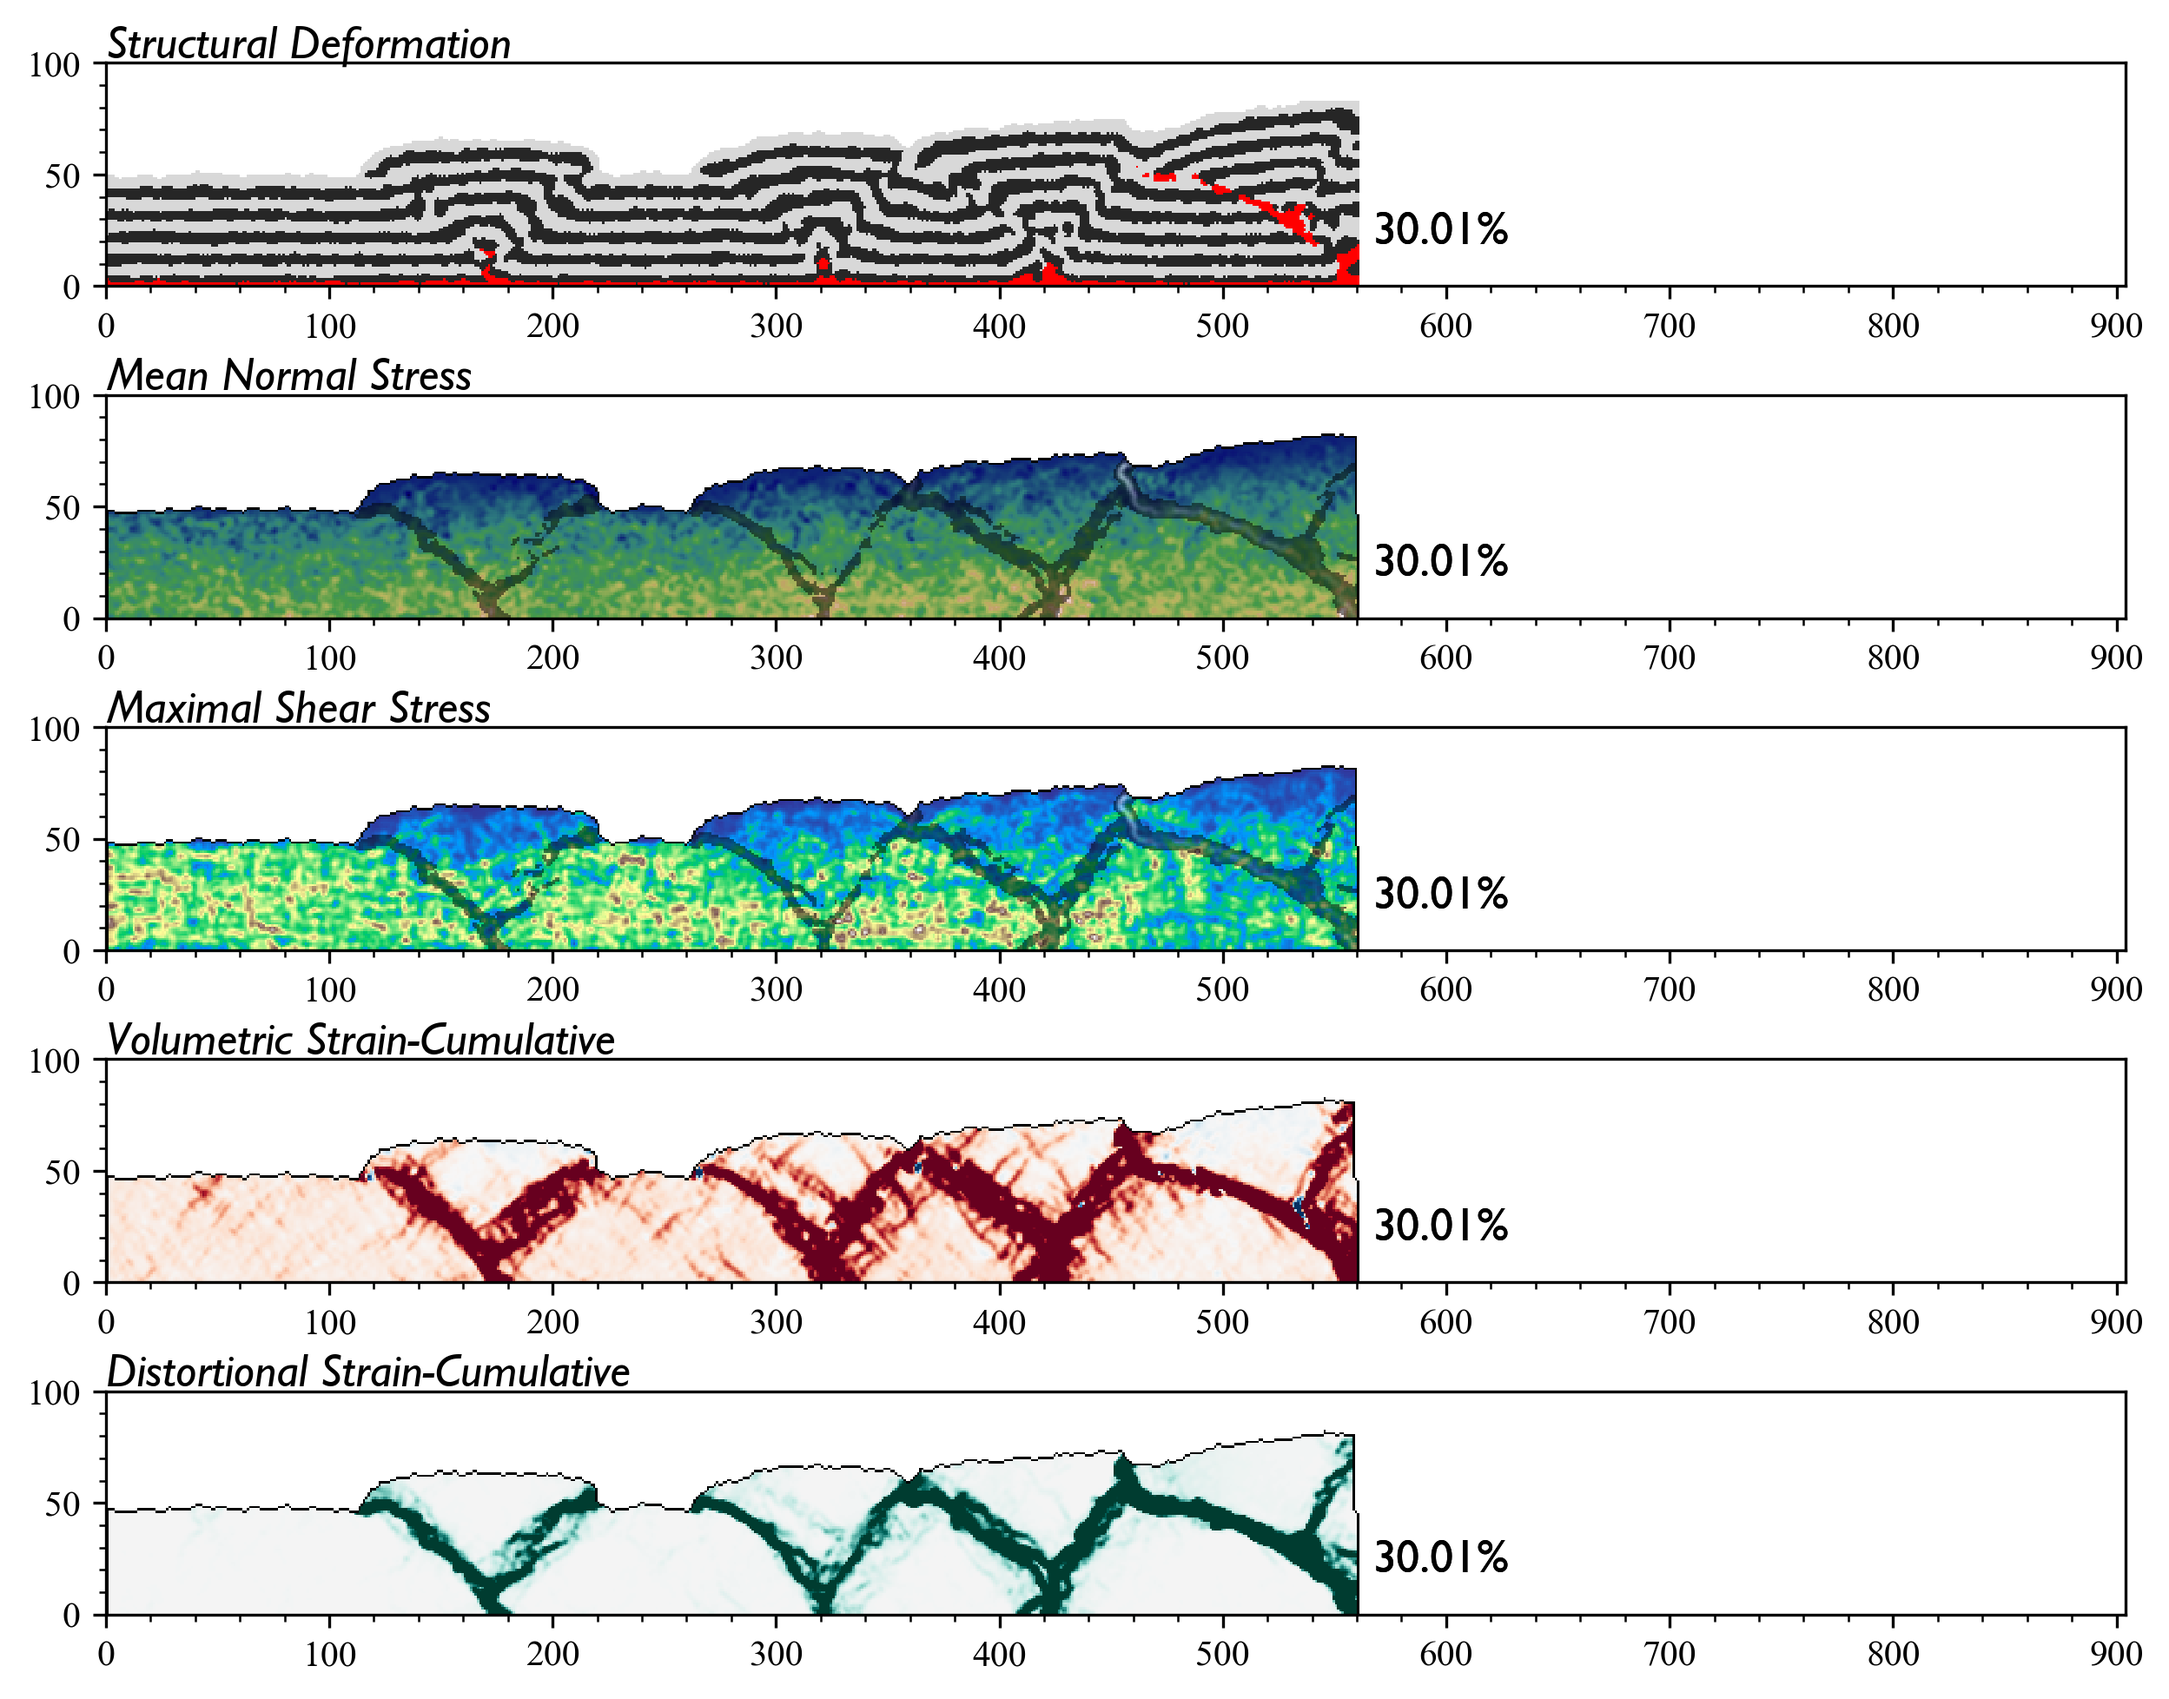
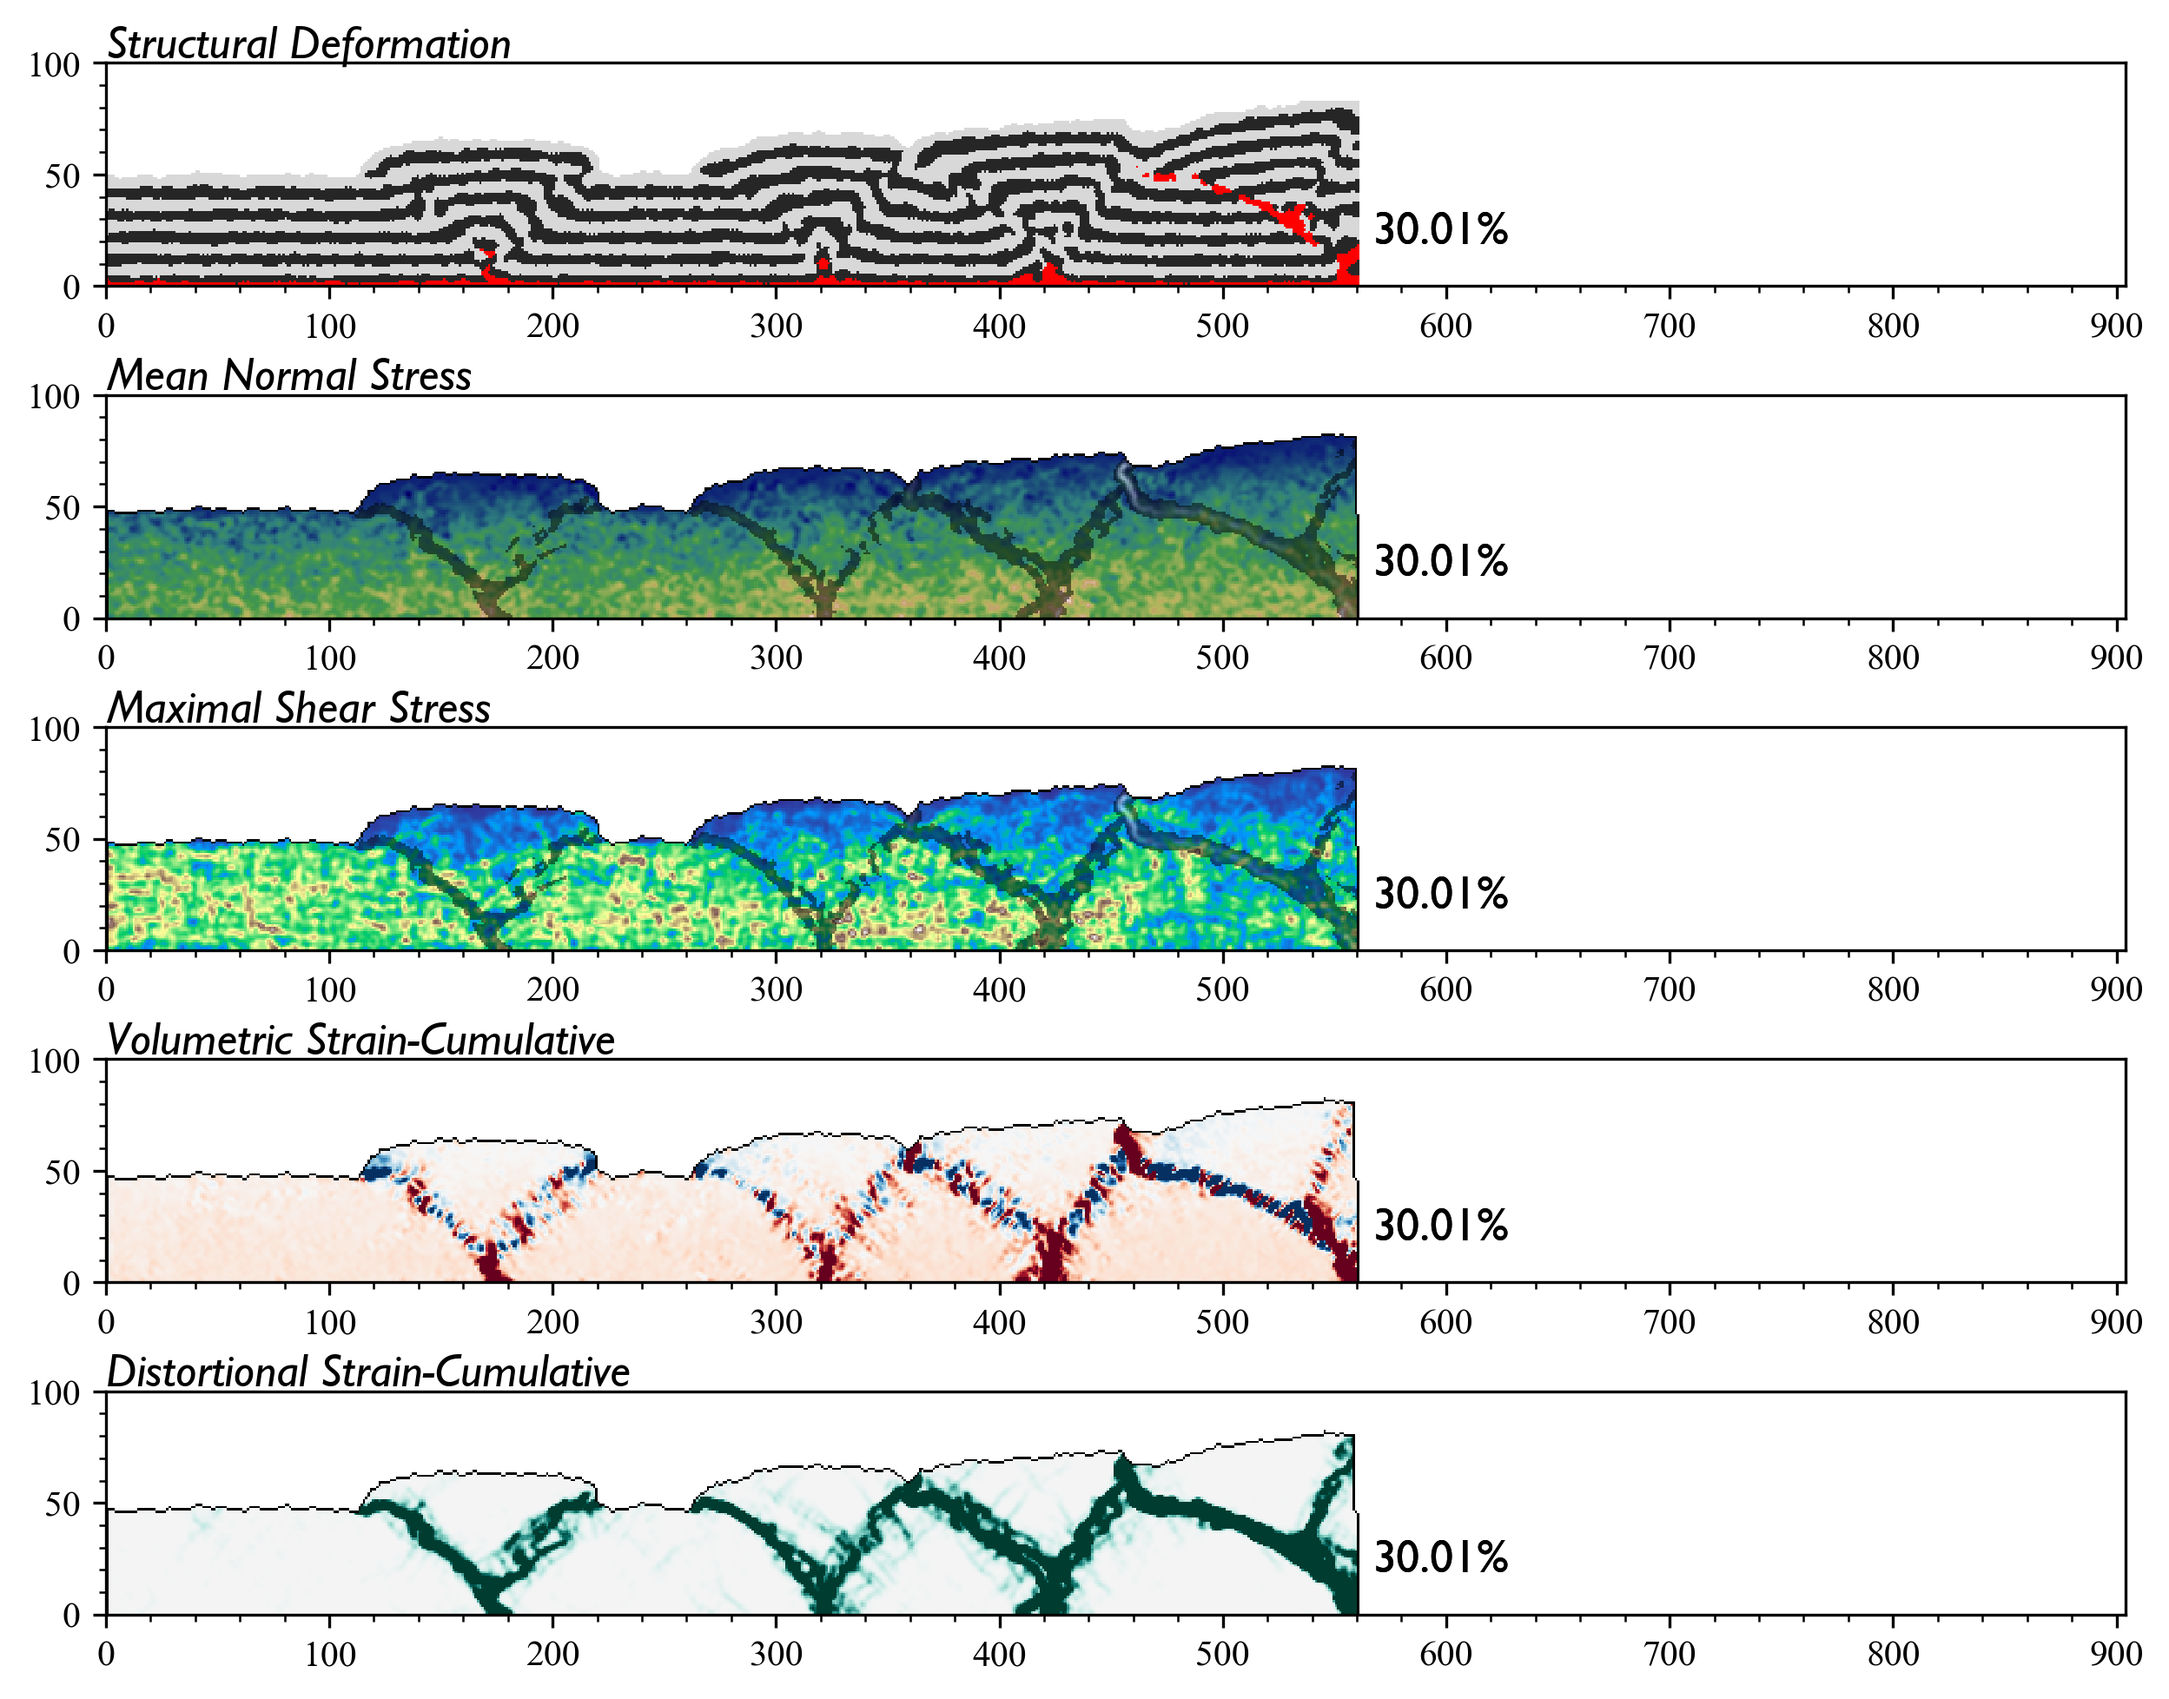
update README

diff --git a/2D/Module/calculation_spheres_matrix.py b/2D/Module/calculation_spheres_matrix.py
@@ -11,9 +11,13 @@ Created on Sat May  4 15:25:52 2019
 
 '''
 demand:
-Calculate strain via displacement
+    Calculate strain via displacement
 '''
 
+"""
+Hint:
+    Calculation for gradient on y need to add '-' for the geometry of mat and axis is not same
+"""
 import copy as cp
 import numpy as np
 
@@ -407,15 +411,15 @@ def SpheresVelocityMatrix(pixel_step,
         Y=C_In.ScattersInGridIDW(scatters_velocity_y,pixel_step,which_surface_map)
 
     #axis=0 x gradient, axis=1 y gradient
-    X_x=np.gradient(X,axis=1)
-    X_y=np.gradient(X,axis=0)
-    Y_x=np.gradient(Y,axis=1)
-    Y_y=np.gradient(Y,axis=0)
+    X_x=+np.gradient(X,axis=1)
+    X_y=-np.gradient(X,axis=0)
+    Y_x=+np.gradient(Y,axis=1)
+    Y_y=-np.gradient(Y,axis=0)
 
     #resultant displacement
     V=np.sqrt(X**2+Y**2) 
-    V_x=np.gradient(V,axis=1)
-    V_y=np.gradient(V,axis=0)
+    V_x=+np.gradient(V,axis=1)
+    V_y=-np.gradient(V,axis=0)
     
     #make sure shape is same
     if not (np.shape(X)==\
@@ -530,9 +534,9 @@ def SpheresStrainMatrix(pixel_step,
                                 which_interpolation)
 
     #axis=0 x gradient, axis=1 y gradient
-    ε_xx=np.gradient(X,axis=1)
-    ε_yy=np.gradient(Y,axis=0)
-    γ_xy=np.gradient(Y,axis=1)+np.gradient(X,axis=0)
+    ε_xx=+np.gradient(X,axis=1)
+    ε_yy=-np.gradient(Y,axis=0)
+    γ_xy=+np.gradient(Y,axis=1)-np.gradient(X,axis=0)
 
     #make sure shape is same
     if not (np.shape(ε_xx)==\
@@ -561,15 +565,15 @@ def SpheresStrainMatrix(pixel_step,
     map_strain['Distortional']=(0.5*(ε_xx-ε_yy))**2+(0.5*γ_xy)**2
  
     #x, y gradient of X, Y
-    X_x=np.gradient(X,axis=1)
-    X_y=np.gradient(X,axis=0)
-    Y_x=np.gradient(Y,axis=1)
-    Y_y=np.gradient(Y,axis=0)
+    X_x=+np.gradient(X,axis=1)
+    X_y=-np.gradient(X,axis=0)
+    Y_x=+np.gradient(Y,axis=1)
+    Y_y=-np.gradient(Y,axis=0)
     
     #resultant displacement
     D=np.sqrt(X**2+Y**2) 
-    D_x=np.gradient(D,axis=1)
-    D_y=np.gradient(D,axis=0)
+    D_x=+np.gradient(D,axis=1)
+    D_y=-np.gradient(D,axis=0)
     
     #make sure shape is same
     if not (np.shape(X)==\

diff --git a/2D/visualization.py b/2D/visualization.py
@@ -28,7 +28,7 @@ for this_case_name in list_case_output:
     
     if version=='lite':
         
-        progress_folder=folder_output+'\\'+this_case_name+'\\structural deformation'
+        progress_folder=folder_output+'\\'+this_case_name+'\\Structural Deformation'
 
         #looking for final progress by index of max
         list_percentage=[float(this_str.split('%')[0]) for this_str in os.listdir(progress_folder)]
@@ -48,6 +48,6 @@ for this_case_name in list_case_output:
         '''final only standard: 33'''
         '''original and final all: '''
         '''original and final standard: 45'''
-        if this_case_name not in list_case_Figure or O_P.FilesAmount(folder_Figure+'\\'+this_case_name)[2]<45:
+#        if this_case_name not in list_case_Figure or O_P.FilesAmount(folder_Figure+'\\'+this_case_name)[2]<45:
             
-            V_C.CaseVisualization(folder_output+'\\'+this_case_name)
+        V_C.CaseVisualization(folder_output+'\\'+this_case_name)

diff --git a/2D/Module/visualization_case.py b/2D/Module/visualization_case.py
@@ -69,11 +69,11 @@ def CaseVisualization(case_path,output_folder=None,with_fracture=False):
     
     if output_folder==None:
         
-        case_folder=case_path.replace('output','Figures')
+        case_folder=case_path.replace('output','Figure')
         
-    V_S.SeriesAll(case_folder,that_case,with_fracture)   
-    V_A.AnimationAll(case_folder,that_case,with_fracture)
-    V_I_A.IntegralAnalysisAll(case_folder,that_case,with_fracture)
+#    V_S.SeriesAll(case_folder,that_case,with_fracture)   
+#    V_A.AnimationAll(case_folder,that_case,with_fracture)
+#    V_I_A.IntegralAnalysisAll(case_folder,that_case,with_fracture)
     
     #figures in different progress
     for this_progress in that_case.list_progress:

diff --git a/2D/essay.py b/2D/essay.py
@@ -11,17 +11,17 @@ Created on Mon Mar 16 13:59:03 2020
 
 from __init__ import *
 
-case_path=r'D:\GitHub\YADE\Controlling-Simulation\2D\extension 100-200\input\single'
+case_path=r'D:\GitHub\YADE\Controlling-Simulation\2D\compression 100-800\input\single'
 
-pixel_step=10
-
-that_case=case()
-
-that_case.InitCalculation(case_path)
-
-spheres=list(that_case.list_A_progress[-1].map_id_spheres.values())
-
-surface_map=C_S_B.SpheresTopMap(spheres,pixel_step) 
+#pixel_step=10
+#
+#that_case=case()
+#
+#that_case.InitCalculation(case_path)
+#
+#spheres=list(that_case.list_A_progress[-1].map_id_spheres.values())
+#
+#surface_map=C_S_B.SpheresTopMap(spheres,pixel_step) 
 
 '''effect of rasterization'''
 #plot scatter
